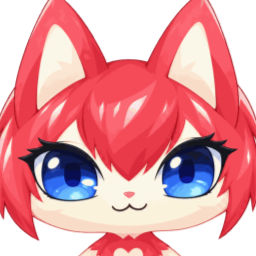
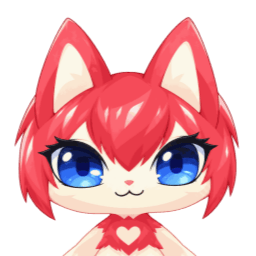
顔アイコン: ママニャー・ミミニャーを社長が選んだ寄り方(顔の幅 丸の80%)に作り直す
Claude-Session: https://claude.ai/code/session_01VRYhgmPT7CS6iFeyRbpz1p

diff --git a/monster-hero/index.html b/monster-hero/index.html
@@ -40,7 +40,7 @@ window.addEventListener('unhandledrejection', function(ev){ window.__mhErr('[pro
 // ここでは各ファイルの実サイズを重みにして、実際に受け取ったバイト数で動かす。
 window.__mhBoot = (function () {
   // 起動時に読み込むファイルの実サイズ(バイト)。tools/build.js が実ファイルから書き込む
-  var SIZES = {"vendor/react.production.min.js":10751,"vendor/react-dom.production.min.js":131835,"data/images/images-ally.js":46817,"data/images/images-enemy.js":2926,"data/ally-monsters.js":56492,"data/lineages.js":25432,"data/breeder.js":106029,"data/enemy-monsters.js":7879,"data/skills.js":4375,"data/rhythm-mode.js":3891085,"data/rhythm-lane-svg.js":11949,"data/rhythm-geometry-calibration.js":15552,"data/rhythm-result-replay-remount.js":5743,"data/rhythm-event.js":76361,"data/changelog.js":1448176,"data/help.js":646744,"data/rhythm-step3-release.js":8517,"data/assistants.js":837463,"data/card-battle-cards.js":112387,"tailwind.css":240987,"game-system.compiled.js":6504642,"data/images/title-screen-halloween.jpg":368790,"audio/bgm-title-theme.mp3":270378}; /* BOOT_SIZES */
+  var SIZES = {"vendor/react.production.min.js":10751,"vendor/react-dom.production.min.js":131835,"data/images/images-ally.js":46843,"data/images/images-enemy.js":2926,"data/ally-monsters.js":56492,"data/lineages.js":25432,"data/breeder.js":106029,"data/enemy-monsters.js":7879,"data/skills.js":4375,"data/rhythm-mode.js":3891085,"data/rhythm-lane-svg.js":11949,"data/rhythm-geometry-calibration.js":15552,"data/rhythm-result-replay-remount.js":5743,"data/rhythm-event.js":76361,"data/changelog.js":1448176,"data/help.js":646744,"data/rhythm-step3-release.js":8517,"data/assistants.js":837463,"data/card-battle-cards.js":112387,"tailwind.css":240987,"game-system.compiled.js":6504642,"data/images/title-screen-halloween.jpg":368790,"audio/bgm-title-theme.mp3":270378}; /* BOOT_SIZES */
   var total = 0, k;
   for (k in SIZES) total += SIZES[k];
   var got = {};   // ファイルごとに「いま何バイト受け取ったか」
@@ -102,7 +102,7 @@ var GAME_BUILD = 'df247efa677d';
 window.__mhGameBuild = GAME_BUILD;
 // 画面に出す版の日時(BUILD_DATE)。本体の中に書くと、ビルドのたびに本体の中身(と GAME_BUILD)が変わり、
 // 事前ダウンロードにためた本体が使えなくなるので、ここから渡す。tools/stamp-version.js が version.json と同じ値を打つ
-window.__mhBuildDate = '2026-10-27 04:36';
+window.__mhBuildDate = '2026-10-27 04:37';
 // 起動でいちばん大きいのは本体JS(約2.7MB)。いちばん後ろで読むため、そこへ来ると
 // ゲージが止まって見えていた。先に取りはじめて、受け取ったバイト数をそのまま出す。
 // ここで取ったものはブラウザのキャッシュに載るので、下の <script> は取り直さない
@@ -2245,7 +2245,7 @@ window.__mhBoot.prefetch('game-system.compiled.js', 'game-system.compiled.js?v='
 <body>
 <div id="loading"><div class="static-mocchi"><img id="static-mocchi-image" alt="モッチー"><span></span></div><section class="static-copy"><h1>NOW LOADING</h1><h2>冒険の準備をしています</h2><div class="static-progress"><span></span></div><strong>0%</strong><p>ゲームシステムを起動中</p></section></div>
 <div id="root"></div>
-<script src="data/images/images-ally.js?v=4f77d68cf17a" onload="__mhBoot.done('data/images/images-ally.js','モンスターの絵を読み込み中')" onerror="__mhBoot.fail('data/images/images-ally.js')"></script>
+<script src="data/images/images-ally.js?v=2d2f67be1bd2" onload="__mhBoot.done('data/images/images-ally.js','モンスターの絵を読み込み中')" onerror="__mhBoot.fail('data/images/images-ally.js')"></script>
 <script>try{document.getElementById('static-mocchi-image').src=MOCCHI_IMG}catch(e){}</script>
 <script src="data/images/images-enemy.js?v=f10f6ad82110" onload="__mhBoot.done('data/images/images-enemy.js','敵モンスターの絵を読み込み中')" onerror="__mhBoot.fail('data/images/images-enemy.js')"></script>
 <script src="data/ally-monsters.js?v=51d6430d98dd" onload="__mhBoot.done('data/ally-monsters.js','モンスターデータを読み込み中')" onerror="__mhBoot.fail('data/ally-monsters.js')"></script>

diff --git a/monster-hero/data/images/images-ally.js b/monster-hero/data/images/images-ally.js
@@ -372,7 +372,7 @@ const HYBRID_C056_FACE_ICON = "images/monster-icons/face/c056.png?v=ed4aac02295a
 const HYBRID_C057_FACE_ICON = "images/monster-icons/face/c057.png?v=13230681ef1d";
 const HYBRID_C058_FACE_ICON = "images/monster-icons/face/c058.png?v=3bfcaaa0ceaf";
 const HYBRID_C059_FACE_ICON = "images/monster-icons/face/c059.png?v=106d33ba40e0";
-const HYBRID_C060_FACE_ICON = "images/monster-icons/face/c060.png?v=6068ebe63111";
+const HYBRID_C060_FACE_ICON = "images/monster-icons/face/c060.png?v=7b1d704aac06";
 const HYBRID_C061_FACE_ICON = "images/monster-icons/face/c061.png?v=920ea9e836ad";
 const HYBRID_C062_FACE_ICON = "images/monster-icons/face/c062.png?v=07f17eb1dfee";
 const HYBRID_C055_FACE_ICON = "images/monster-icons/face/c055.png?v=a71918e0b84b";
@@ -393,7 +393,7 @@ const HYBRID_C034_FACE_ICON = "images/monster-icons/face/c034.png?v=ec1be7dcb7a6
 const HYBRID_C035_FACE_ICON = "images/monster-icons/face/c035.png?v=895f6b37c7db";
 const HYBRID_C036_FACE_ICON = "images/monster-icons/face/c036.png?v=cb3c4f4a19a6";
 const HYBRID_C038_FACE_ICON = "images/monster-icons/face/c038.png?v=4eaeb9ce0c27";
-const HYBRID_C039_FACE_ICON = "images/monster-icons/face/c039.png?v=673f2f41e714";
+const HYBRID_C039_FACE_ICON = "images/monster-icons/face/c039.png?v=a42c3f14dd98";
 const HYBRID_C040_FACE_ICON = "images/monster-icons/face/c040.png?v=c09a8d93ef8e";
 const HYBRID_C041_FACE_ICON = "images/monster-icons/face/c041.png?v=e5b9e37dddf1";
 const HYBRID_C042_FACE_ICON = "images/monster-icons/face/c042.png?v=9331e5dd8316";
@@ -585,7 +585,7 @@ const ART_ANCHORS = Object.freeze({
   HYBRID_C057: Object.freeze({ face: Object.freeze([0.509, 0.135]) }),
   HYBRID_C058: Object.freeze({ face: Object.freeze([0.5, 0.5]) }),
   HYBRID_C059: Object.freeze({ face: Object.freeze([0.5, 0.525]) }),
-  HYBRID_C060: Object.freeze({ face: Object.freeze([0.515, 0.435]) }),
+  HYBRID_C060: Object.freeze({ face: Object.freeze([0.515, 0.435]), zoom: 0.871 }),
   HYBRID_C061: Object.freeze({ face: Object.freeze([0.5, 0.475]) }),
   HYBRID_C062: Object.freeze({ face: Object.freeze([0.5, 0.649]) }),
   HYBRID_C055: Object.freeze({ face: Object.freeze([0.5, 0.387]) }),
@@ -605,7 +605,7 @@ const ART_ANCHORS = Object.freeze({
   HYBRID_C035: Object.freeze({ face: Object.freeze([0.505, 0.275]) }),
   HYBRID_C036: Object.freeze({ face: Object.freeze([0.5, 0.2]) }),
   HYBRID_C038: Object.freeze({ face: Object.freeze([0.5, 0.5]) }),
-  HYBRID_C039: Object.freeze({ face: Object.freeze([0.381, 0.3]) }),
+  HYBRID_C039: Object.freeze({ face: Object.freeze([0.381, 0.3]), zoom: 0.819 }),
   HYBRID_C040: Object.freeze({ face: Object.freeze([0.5, 0.45]) }),
   HYBRID_C041: Object.freeze({ face: Object.freeze([0.5, 0.625]) }),
   HYBRID_C042: Object.freeze({ face: Object.freeze([0.5, 0.18]) }),
